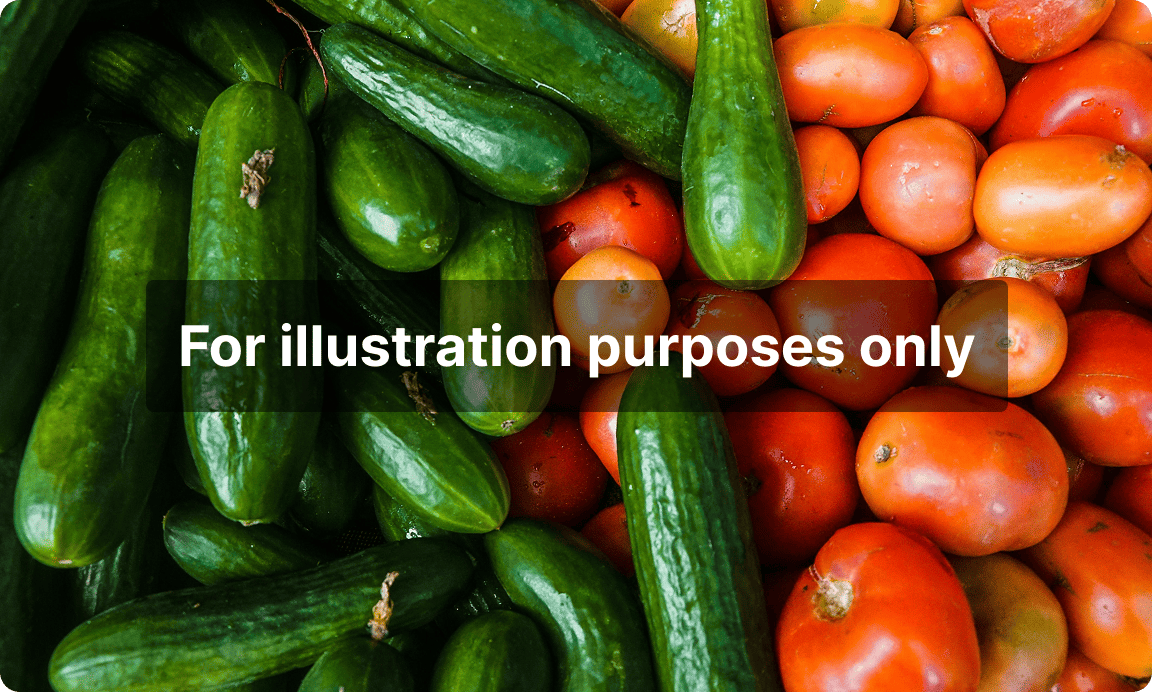
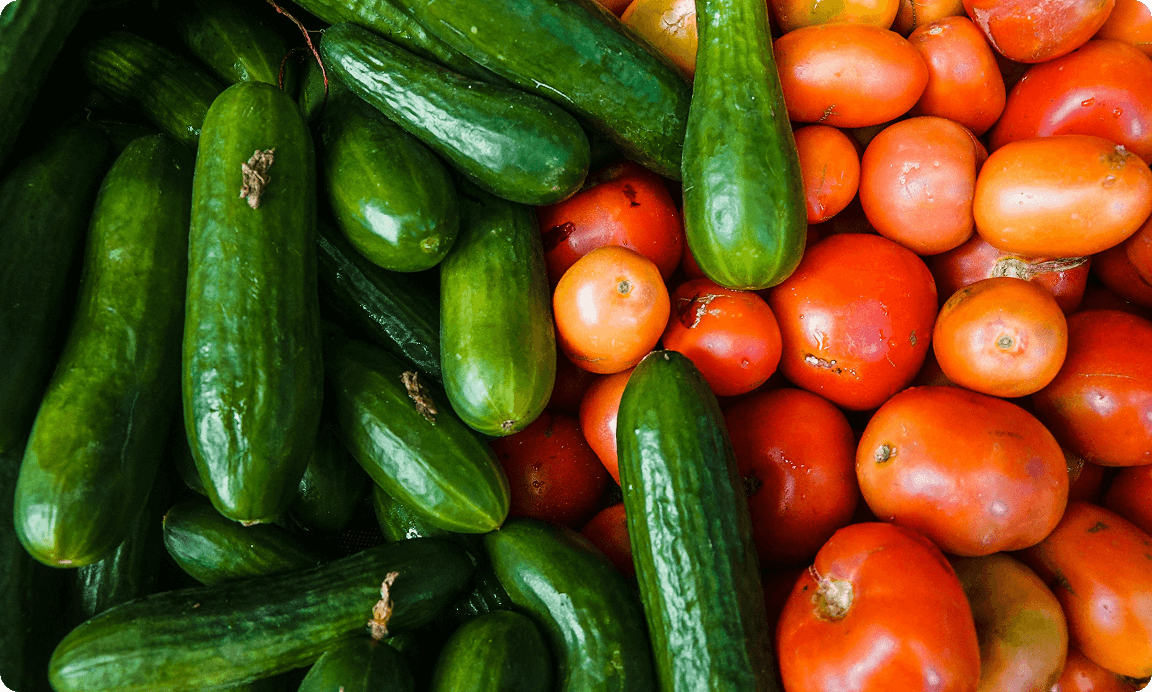
upd: update vegan page UI

diff --git a/src/components/HostVegan.vue b/src/components/HostVegan.vue
@@ -5,6 +5,7 @@
       <div class="host-vegan__content">
         <div class="card" v-for="item in data" :key="item.name">
           <div class="card-image">
+            <p class="illustration-title">{{ $t('host.illustration_title') }}</p>
             <img :src="item.imageUrl" :alt="item.name" />
           </div>
           <div class="card-content">
@@ -183,7 +184,7 @@ const vegan = [
     traffic:
       '從「捷運南港展覽館站(BL23)」搭乘捷運板南線(藍線)至「昆陽站(BL21)」，3號出口出站步行約1分鐘即可抵達。',
     distance: '約7公里',
-    rating: 'Google Maps 4.5⭐'
+    rating: 'Google Maps 4.5⭐',
   },
 ]
 const veganEn = [
@@ -269,7 +270,8 @@ const veganEn = [
       },
     ],
     address: `2nd Floor, Building C, No. 186-1, Jingmao 2nd Road, Nangang District, Taipei City`,
-    traffic: 'Walk along Jingmao 2nd Road, turn left at Lane 106. The total walking time is about 5 minutes.',
+    traffic:
+      'Walk along Jingmao 2nd Road, turn left at Lane 106. The total walking time is about 5 minutes.',
     distance: 'Approximately 1 km',
     rating: 'Google Maps 4.3⭐',
   },
@@ -289,16 +291,16 @@ const veganEn = [
     traffic:
       'Take the Taipei Metro Bannan Line (Blue Line) from Nangang Exhibition Center Station (BL 23) to Kunyang Station (BL 21). Exit via Exit 3, then walk for about 1 minute to reach the destination.',
     distance: 'Approximately 7 km',
-    rating: 'Google Maps 4.5⭐'
+    rating: 'Google Maps 4.5⭐',
   },
 ]
 const data = computed(() => {
-  return locale.value === 'en' ? veganEn : vegan;
-});
+  return locale.value === 'en' ? veganEn : vegan
+})
 </script>
 
 <style lang="scss" scoped>
-@use "sass:map";
+@use 'sass:map';
 $block-bg-color: #fff;
 
 $font-size-title: (
@@ -341,6 +343,21 @@ $font-size-info: (
         margin-right: 0.32rem;
         overflow: hidden;
         flex-shrink: 0;
+        position: relative;
+        .illustration-title {
+          position: absolute;
+          width: 4.5rem;
+          padding: 0.16rem;
+          text-align: center;
+          top: 50%;
+          left: 50%;
+          transform: translate(-50%, -50%);
+          background-color: rgba(0, 0, 0, 0.5);
+          font-size: map.get($font-size-title, pc);
+          border-radius: 0.04rem;
+          color: #fff;
+          font-weight: 700;
+        }
         img {
           width: 100%;
           height: 100%;
@@ -430,6 +447,12 @@ $font-size-info: (
       gap: 0.2rem;
       .card {
         width: 100%;
+        .card-image {
+          .illustration-title {
+            width: 80%;
+            font-size: map.get($font-size-title, mobile);
+          }
+        }
         .card-content {
           .card-title {
             text-align: center;

diff --git a/src/i18n/en.ts b/src/i18n/en.ts
@@ -161,7 +161,7 @@ Skills competitions are one of the agency’s key initiatives, aimed at establis
     map_button: 'View on Google Map',
     muslim_title: 'Muslim Restaurants',
     vegan_title: 'Vegetarian Restaurants',
-
+    illustration_title: 'For illustration purposes only',
   },
   competition: {
     title: 'Competition',

diff --git a/src/i18n/tw.ts b/src/i18n/tw.ts
@@ -158,6 +158,7 @@ export default {
     map_button: '於Google Map查看',
     vegan_title: '素食',
     muslim_title: '穆斯林餐廳（具清真認證）',
+    illustration_title: '僅供示意圖',
   },
   competition: {
     title: '關於競賽',
